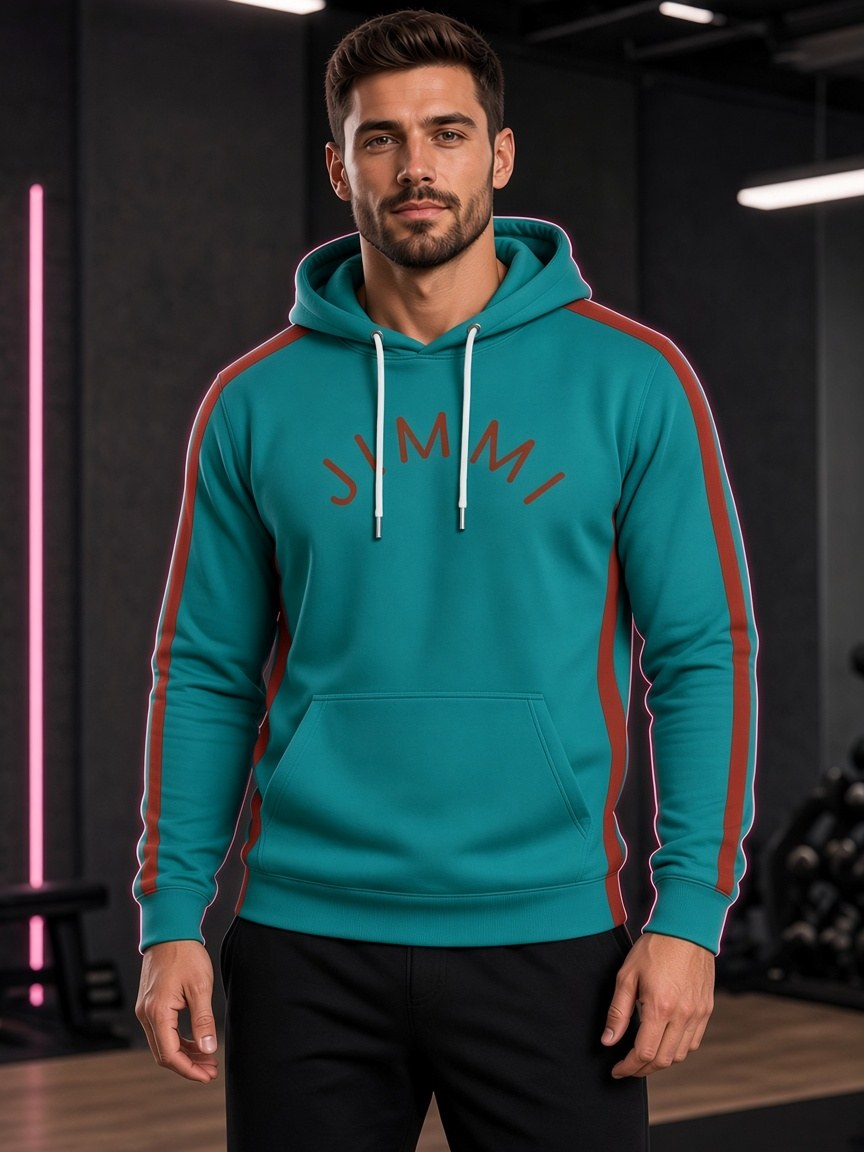
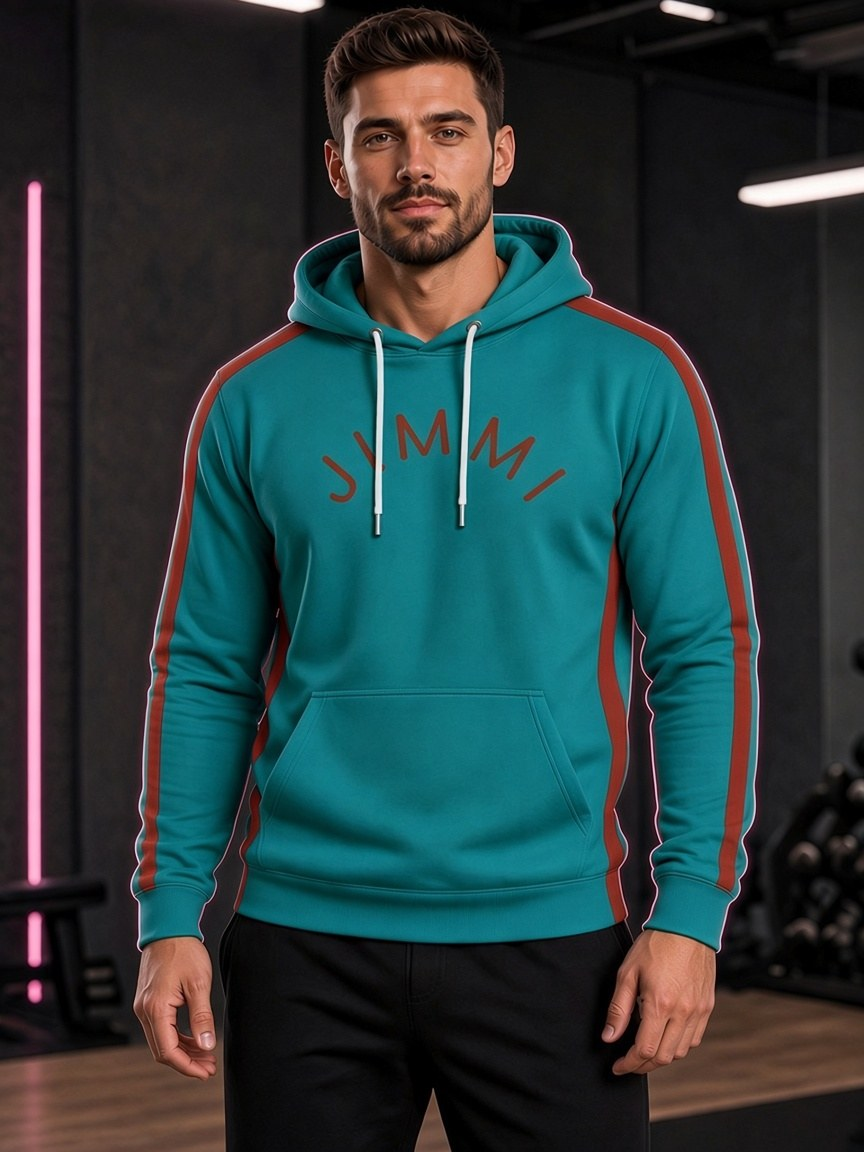
Hoodie: shoulder-to-forearm stripes photo

diff --git a/products.js b/products.js
@@ -16,5 +16,5 @@ window.JIMMI_PRODUCTS = [
   {"id": "leggings-black-red", "name": "Black & Red 7/8 Leggings", "blurb": "Black 7/8 leggings with a thin red side stripe and a red \"Jimmi at the gym\" down the thigh. Clean and simple.", "sku": "Preview · price TBD", "image": "assets/products/print/leggings-A2-v2.jpg", "etsyUrl": "https://www.etsy.com", "tag": "New · Women"},
   {"id": "leggings-teal-coral", "name": "Teal & Coral Color-Block Leggings", "blurb": "Teal on top, coral below, with a teal JIMMI and \"at the gym\" down the lower leg. No logo, just the wordmark.", "sku": "Preview · price TBD", "image": "assets/products/print/leggings-A4-v2.jpg", "etsyUrl": "https://www.etsy.com", "tag": "New · Women"},
   {"id": "leggings-cobalt-orange", "name": "Cobalt & Orange 7/8 Leggings", "blurb": "7/8-length cobalt leggings, orange wordmark on the thigh, orange Jimmi head on the ankle, and \"If Jimmi can do it, anyone can.\" on the back waistband.", "sku": "Preview · price TBD", "image": "assets/products/print/leggings-A5.jpg", "etsyUrl": "https://www.etsy.com", "tag": "New · Women"},
-  {"id": "hoodie-teal-brick", "name": "Teal & Brick Retro Stripe Hoodie", "blurb": "Teal pullover hoodie with JIMMI arched in brick red across the chest, plus 80s-style brick red stripes down both sleeves and both side seams.", "sku": "Preview · price TBD", "image": "assets/products/print/hoodie-teal-brick.jpg", "etsyUrl": "https://www.etsy.com", "tag": "New · Hoodies"}
+  {"id": "hoodie-teal-brick", "name": "Teal & Brick Retro Stripe Hoodie", "blurb": "Teal pullover hoodie with JIMMI arched in brick red across the chest, plus 80s-style brick red stripes running over the shoulders and down the arms, and down both side seams.", "sku": "Preview · price TBD", "image": "assets/products/print/hoodie-teal-brick.jpg", "etsyUrl": "https://www.etsy.com", "tag": "New · Hoodies"}
 ];

diff --git a/sw.js b/sw.js
@@ -1,4 +1,4 @@
-const C='jimmi-v27';
+const C='jimmi-v28';
 self.addEventListener('install',e=>{e.waitUntil(caches.open(C).then(c=>c.addAll(['./','index.html','styles.css','products.js','manifest.webmanifest','icon-192.png','studio.html','studio.css','studio.js','assets/studio/logo-body.png','assets/studio/logo-hair.png','assets/studio/wordmark.png'])));self.skipWaiting();});
 self.addEventListener('activate',e=>{e.waitUntil(caches.keys().then(k=>Promise.all(k.filter(x=>x!==C).map(x=>caches.delete(x)))));self.clients.claim();});
 self.addEventListener('fetch',e=>{const r=e.request;if(r.method!=='GET'||r.headers.has('range'))return;

diff --git a/index.html b/index.html
@@ -116,7 +116,7 @@
     const products = window.JIMMI_PRODUCTS || [];
     grid.innerHTML = products.map((p) => `
       <article class="card">
-        <div class="card-img"><img src="${p.image}?v=20261104b" alt="${p.name}" loading="lazy" /></div>
+        <div class="card-img"><img src="${p.image}?v=20261104j" alt="${p.name}" loading="lazy" /></div>
         <div class="card-body">
           <div class="card-tag">${p.tag}</div>
           <h3>${p.name}</h3>
